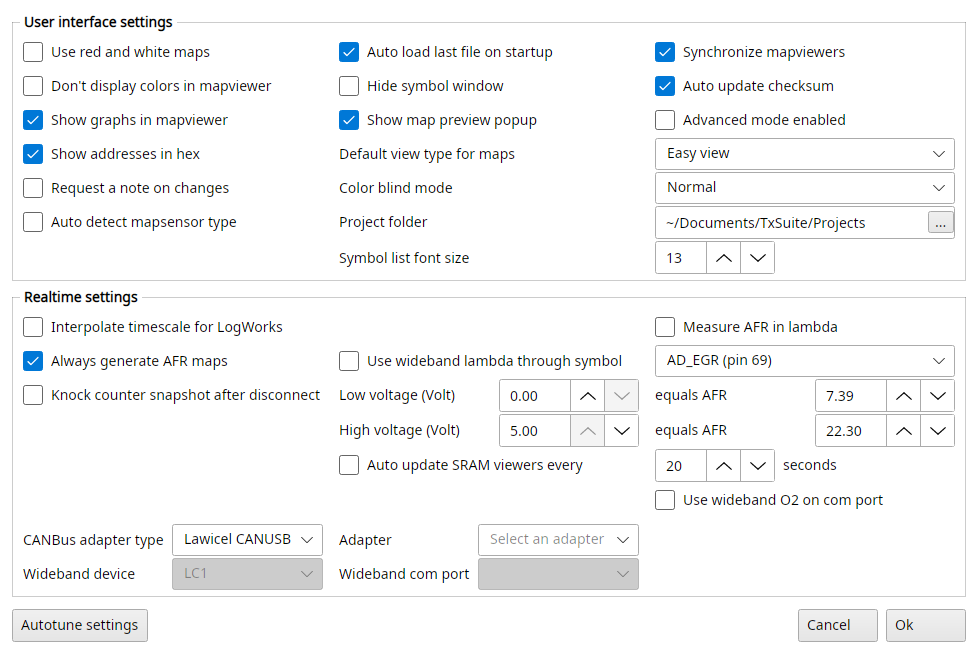
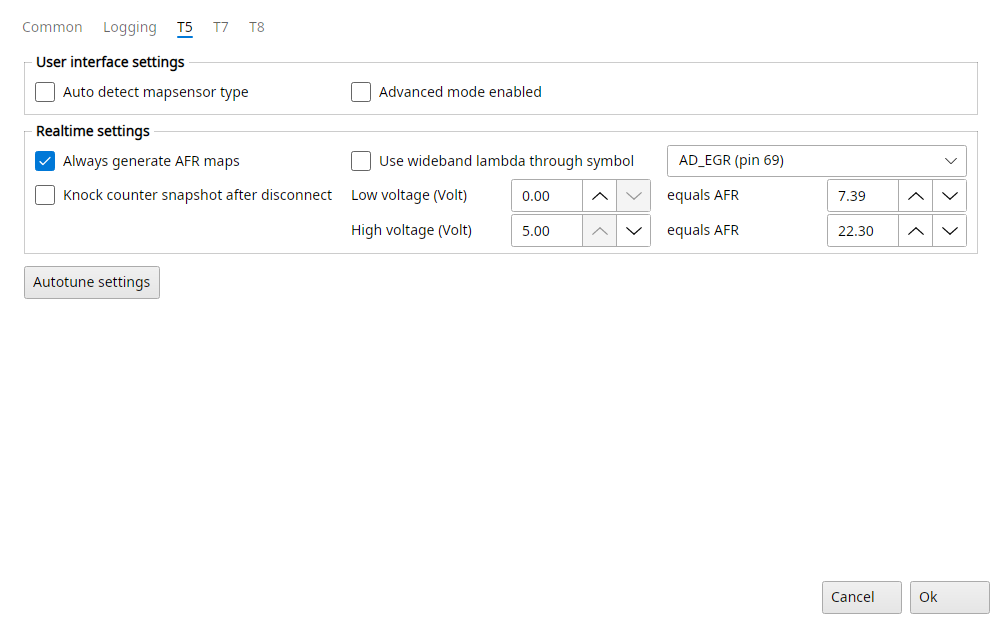
docs: TxSuite without suites inside, Settings → Logging and the map colour options gone; the screenshots from TxSuite

diff --git a/PORTING.md b/PORTING.md
@@ -26,10 +26,10 @@ This file is the tracker. Update the checkboxes and the log at the bottom as wor
 | Repo | T7Suite was ported on branch `net10` (merged), T8Suite is on `net10-t8` |
 | TrionicCANLib | ProjectReference to `Trionic/TrionicCANLib/TrionicCANLib.csproj` in the `Trionic` submodule (roffe/Trionic), set once in `Directory.Build.props` as `$(TrionicDir)` and overridable with `-p:TrionicDir=…` (e.g. `../Trionic` while working on both) |
 | WidebandSupport | Vendored into `WidebandSupport/` (from f0c0e87) with an SDK-style net10 csproj and the System.IO.Ports package. No licence file upstream, but every source file carries George Daswani's Apache License 2.0 header |
-| Settings | JSON at `<AppData>/MattiasC/T7SuitePro/settings.json`, plus a one-time import from `HKCU\Software\MattiasC\T7SuitePro` (and its MRU key `HKCU\Software\T7SuitePro\MRUList`) on Windows, as the flasher does |
+| Settings | JSON at `<AppData>/MattiasC/T7SuitePro/settings.json`, plus a one-time import from `HKCU\Software\MattiasC\T7SuitePro` (and its MRU key `HKCU\Software\T7SuitePro\MRUList`) on Windows, as the flasher does. Since TxSuite is the one program (2026-10-14): `<AppData>/MattiasC/TxSuite/settings.json`, the shared options once and each ECU's own in its section, the old suites' settings imported once (see TxSuite) |
 | Versioning, CI, packaging | Copy the flasher's: version from git tags in `Directory.Build.props`, one tag prefix per suite, upstream's release tags (`T7suite_v2.0.0`, later `T8suite_v`, `T5suite_v`), set by the app project's `VersionTagPrefix`, so a tag versions one suite; libraries and tests build as `0.0.0-<sha>`. One repo for all suites (revisit splitting after the T8 port, then with NuGet packages rather than submodules); self-contained win-x86 / linux-x64 / linux-arm64 / osx builds; WiX MSI, tar.gz and zip |
 | Threading | The ECU and realtime loop run on worker threads and report back with `Dispatcher.UIThread.Post`, never a blocking Invoke (the flasher deadlocked that way). Wrap the library's sync calls in a worker plus a `TaskCompletionSource`, like the flasher's `RunOnWorker` |
-| Map controls | Own Avalonia controls in `MapControls/`. Behaviour (selection, editing, keys, menus, clipboard) follows T7Suite; from txlogger the meshgrid 3D projection/drawing, the graph2d layout and the colour scale (green → yellow → red over the map's min..max; T7Suite's raw ÷ max made a fuel map red from its lowest cell). T7Suite's red-white option and online tint stay |
+| Map controls | Own Avalonia controls in `MapControls/`. Behaviour (selection, editing, keys, menus, clipboard) follows T7Suite; from txlogger the meshgrid 3D projection/drawing, the graph2d layout and the colour scale (green → yellow → red over the map's min..max; T7Suite's raw ÷ max made a fuel map red from its lowest cell). T7Suite's online tint stays; its red-white and no-colour options went on 2026-10-14 (the colour blind modes choose the map colours) |
 | Shared T7/T8 code | `SuiteCore` (no UI: the lifted CommonSuite code, `SuiteBinary` which T7Binary and T8Binary derive from, `SuiteProject`, compare / transfer, map search, symbol files, tuning packages, My Maps, the ECU worker thread and adapter setup, the realtime table, engine loop and logs, the update check, the DTC catalog) and `SuiteApp` (Avalonia: the main window and its view model with its ECU and realtime halves, symbol list, map viewer, workspace, status bar, project dialogs, the offline tuning windows, the realtime panel and log windows, the fault codes window, the settings base, theme, dialogs). The ECU protocols stay per suite (T7Ecu over KWP, T8Ecu over GMLAN). Each app keeps its menus and what only its suite has. The rest of T7Core / T7App moves there in the chunk where T8 needs it, so each piece is generalised against a second real consumer (T7 and T8 share 67 file names but only 8 identical files) |
 
 ## Layout (new projects)
@@ -50,10 +50,12 @@ T7Core/                    net10 class library, no UI: file, symbols, axes, chec
 T7CoreTest/                MSTest, golden tests over T7Binaries/
 MapControls/               Avalonia controls: MapGrid, Surface3D, Graph2D, MapData codec
 MapControlsDemo/           standalone app for working on the controls with fake data
-T7App/                     Avalonia MVVM app, AssemblyName T7Suite
-T8App/                     Avalonia MVVM app, AssemblyName T8Suite, on SuiteApp's main window
+T5App/ T7App/ T8App/       Avalonia libraries (AssemblyName T5Suite / T7Suite / T8Suite): each ECU's module (T5Module, T7Module, T8Module) and its
+                           own windows; the programs they were are TxSuite now
 T8Core/                    net10 class library, no UI: T8Suite's file logic (symbol table, header, dictionary), T8Binary
-T8CoreTest/ T8AppTest/     golden test over T8Binaries/; T8App headless on a stock bin
+T8CoreTest/ T8AppTest/     golden test over T8Binaries/; TxSuite headless on a T8 stock bin (T5AppTest, T7AppTest alike)
+TxSuite/                   the program: MainViewModel over the three modules, MainView (every ECU's menus in one), MainWindow, TxSettingsWindow
+TxSuiteTest/               TxSuite headless: opening another ECU's file, the menus per ECU, the settings store, the partnumber lookup
 SetupTx/                   Inno Setup scripts for TxSuite and TxExtras (the suites' WiX MSIs, SetupT5 / T7 / T8 and SetupExtras, went 2026-10-13)
 packaging/linux/TxSuite/   udev rule, desktop entry installer and icon for TxSuite's tar.gz
 ```
@@ -120,12 +122,12 @@ packaging/linux/TxSuite/   udev rule, desktop entry installer and icon for TxSui
 ### 2. MapControls (can run in parallel with chunk 1)
 Behaviour follows T7Suite's MapViewerEx and the DevExpress grid it used; only rendering techniques come from txlogger (see Decisions).
 - [x] `MapData` (`MapControls/MapData.cs`): bytes ↔ raw ↔ display; 8-bit unsigned, 16-bit big-endian with 0xF001..0xFFFF negative; Hex/Decimal/Easy/ASCII text and parsing exactly as MapViewerEx (Easy is display only: raw*factor+offset, `F2`, `°`/`%` for the T5 names); partial last row; upside-down display; open-loop test (limit per data row > X value); every change through `Set` = one undo step
-- [x] `MapGrid`: X/Y axis headers (hex in hex view), T7Suite cell colours (raw*255/max green→red, red-white alpha, online white→red tint, off), open-loop marks (box / SeaGreen corner), yellow live cell (`SetHighlight(col, dataRow)` = T7Suite's HighlightCell), DevExpress-style selection (click/drag, Shift, Ctrl, arrows), cell editor (typing / F2 / Enter, Easy starts from the value with `F2`, Enter commits the focused cell), steps on the selection (+/- 1, PgUp/PgDn 10 or 0x10, Home max, End 0), context menu with T7Suite's items (Copy selected cells, Paste selected cells at original position / at currently selected location, Smooth selection) plus undo/redo
+- [x] `MapGrid`: X/Y axis headers (hex in hex view), T7Suite cell colours (raw*255/max green→red, online white→red tint; red-white alpha and off until 2026-10-14), open-loop marks (box / SeaGreen corner), yellow live cell (`SetHighlight(col, dataRow)` = T7Suite's HighlightCell), DevExpress-style selection (click/drag, Shift, Ctrl, arrows), cell editor (typing / F2 / Enter, Easy starts from the value with `F2`, Enter commits the focused cell), steps on the selection (+/- 1, PgUp/PgDn 10 or 0x10, Home max, End 0), context menu with T7Suite's items (Copy selected cells, Paste selected cells at original position / at currently selected location, Smooth selection) plus undo/redo
 - [x] `MapOps`: steps, add/multiply/divide/fill with the old formulas and truncation, smooth (old algorithm: integer-step line for a row/column, in-place neighbour average for a block), select by value (physical within 0.009), T7Suite clipboard copy/paste
 - [x] Multi-step undo/redo (an improvement; the old viewer could only revert everything); Ctrl+Z/Y
 - [x] `Surface3D`: txlogger meshgrid's projection and drawing (its SkSL-ported shader on GPU canvases: ray cast height field through the raw values, Blinn-Phong with fake AO and an unlit underside; otherwise Skia Gouraud triangles in painter's order, Lambert shading; axis scales with real axis values, orbit/roll/pan/zoom, live cursor), txlogger's palette (green → yellow → red, or one of its colour blind scales; T7Suite's online wheat → dark blue)
 - [x] `Graph2D`: one row/column with markers, value callouts, nice ticks, live cursor; T7Suite palette for the markers
-- [x] `MapControlsDemo`: `dotnet run --project MapControlsDemo [file.bin]` shows IgnNormCal.Map / BFuelCal.Map / TorqueCal.M_NominalMap of a bin (axes, factors and open-loop limits as frmMain computes them) with view type, online and red-white toggles, 3D and a 2D slice slider
+- [x] `MapControlsDemo`: `dotnet run --project MapControlsDemo [file.bin]` shows IgnNormCal.Map / BFuelCal.Map / TorqueCal.M_NominalMap of a bin (axes, factors and open-loop limits as frmMain computes them) with view type and online toggles, 3D and a 2D slice slider
 - [x] Tests (`MapControlsTest`, 18): MapData decode/encode/format/parse/undo, every op, smooth, clipboard round trip, keyboard and mouse on a live headless window, and headless Skia renders of every control and of the demo on a real bin (`MAPCONTROLS_DUMP=<dir>` saves them as PNG to look at)
 - Moved: the compare overlay in 3D (original / compare surfaces) goes with compare in chunk 4; viewer sync, the slice selector and the "Edit x-axis / y-axis" menu items go with the map viewer view in chunk 3. Dropped: dragging points in the 2D chart (only the legacy MapViewer had it).
 - Deliberate differences from MapViewerEx, where the old behaviour was a bug:
@@ -146,7 +148,7 @@ Behaviour follows T7Suite's MapViewerEx and the DevExpress grid it used; only re
   - symbol list: Symbol name (coloured by prefix like T7Suite), Address and Length (X6 or decimal per ShowAddressesInHex), Description, User description; grouped by category, sorted by length; search over every column; Enter / double-click opens the map
   - title `T7SuitePro v<version> [ file ]`, status bar with open/normal binary, file name, progress, read-only state
   - "File is not a Trionic 7 binary file!" and the known-symbol-list prompts as dialogs (`UserPrompt` wired; the worker thread waits for the answer)
-- [x] Map viewers as tabs titled `Symbol: <name> [<file>]`; opening one again focuses it; viewers of a previous file stay open (as in T7Suite). `MapControls/MapViewer.cs` is the reusable composite (view type, table, 3D / 2D tabs with the column slider, splitter); viewers with the same map name follow each other's selection and 3D camera (`SyncGroup`, replaces frmMain's sync handlers). Settings used: DefaultViewType (T7 / T8 as it is; T5 Decimal when that is the default, else Easy, as T5Suite's MapViewerFactory.Get(settings, file)), ShowRedWhite, DisableMapviewerColors, ShowGraphs, StandardFill (open-loop marks). The 3D graph plots what the table shows (Easy: raw × factor + offset; Decimal: raw, sensor scaled on T5's 3-5 bar bins; Hex / ASCII: raw) and is redrawn on a view change, as MapViewerEx's FillData; the 2D slice stays physical in every view, as UpdateChartControlSlice
+- [x] Map viewers as tabs titled `Symbol: <name> [<file>]`; opening one again focuses it; viewers of a previous file stay open (as in T7Suite). `MapControls/MapViewer.cs` is the reusable composite (view type, table, 3D / 2D tabs with the column slider, splitter); viewers with the same map name follow each other's selection and 3D camera (`SyncGroup`, replaces frmMain's sync handlers). Settings used: DefaultViewType (T7 / T8 as it is; T5 Decimal when that is the default, else Easy, as T5Suite's MapViewerFactory.Get(settings, file)), ShowGraphs, StandardFill (open-loop marks). The 3D graph plots what the table shows (Easy: raw × factor + offset; Decimal: raw, sensor scaled on T5's 3-5 bar bins; Hex / ASCII: raw) and is redrawn on a view change, as MapViewerEx's FillData; the 2D slice stays physical in every view, as UpdateChartControlSlice
 - [x] Information > Firmware information: read-only, with the VIN decoder inline
 - [x] Tests: `T7CoreTest` (T7Binary on a stock bin, firmware info and the SID indicator scan), `MapControlsTest` (viewer sync), `T7AppTest` (the real app headless with Skia: open a bin, symbol list and search, open a map twice, firmware information; `T7APP_DUMP=<dir>` saves the windows as PNG)
 - Deliberate differences: the BioPower rename (BFuelCal.StartMap → BFuelCal.E85Map) now happens; in T7Suite it scanned the previous file's symbols and never fired at open. Feature checks read a symbol through the symbol that matched, not by looking its name up again (on the 123 stock bins with stripped names the old lookup found nothing and read offset 0). "Resolution is" factors are parsed culture-independently. The MRU is saved when it changes, not only on exit.
@@ -167,7 +169,7 @@ Behaviour follows T7Suite's MapViewerEx and the DevExpress grid it used; only re
 - [x] Symbol import (File menu): XML / CSV / AS2 descriptors, names saved to `<bin>.xml` (`T7Core/SymbolFiles.cs`). AS2 counts symbols in table order; T7Suite counted in its length-sorted list (open question: which order AS2 files use)
 - [x] My Maps (mymaps.xml in the settings folder, the same file T7Suite used): menu per category, Define myMaps editor, Add to MyMaps in the symbol list menu; the AFR feedback entries wait for realtime
 - [x] The ribbon's map buttons as a Maps menu with T7Suite's groups and DynamicTuningMenu's rules (BioPower names and E85 maps, B308 second maps, gas maps, boost control, cab gear limit)
-- [x] Settings window: the offline settings that do something here (red-white, graphs, colours, auto-load, default view type, synchronize mapviewers, closed loop indicator, timestamp marker, auto checksum, hex addresses applied at once, auto fix footer, project notes, project folder). Docking / window size / column options don't apply to tabs; the realtime group comes with chunks 5-6
+- [x] Settings window: the offline settings that do something here (graphs, colours, auto-load, default view type, synchronize mapviewers, closed loop indicator, timestamp marker, auto checksum, hex addresses applied at once, auto fix footer, project notes, project folder). Docking / window size / column options don't apply to tabs; the realtime group comes with chunks 5-6
 - [x] Exports: Save as (and open the copy), Export to S19, Generate Idc file, export as tuning package (selected symbols) and fixed tuning package, export symbollist as CSV, Export map to CSV (the Excel export's layout). XDF had no menu in T7 (XDFWriter is T5's)
 - [x] Search map content (`T7Core/MapSearch.cs`): numeric value (raw*factor+offset) or text in the data, symbol names / descriptions, optional map length; results tab opens the maps. T7Suite scanned only the first half of 16-bit tables and matched text only when it was longer than the map; both fixed
 
@@ -592,19 +594,25 @@ Behaviour follows T7Suite's MapViewerEx and the DevExpress grid it used; only re
 
 ## TxSuite (branch `combine`)
 
-One program for the three suites, MattiasC's TxSuite: the suites are unified enough (one main window, one menu layout, shared settings and ECU thread) that TxSuite only has to pick the suite for the file. Built on branch `combine` as a trial; it can be dropped without touching the suites.
+One program for T5, T7 and T8 binaries, MattiasC's TxSuite. First the three suites in one window, swapped in place by the open file's ECU (2026-10-11); since 2026-10-14 without suites inside it (user, 2026-10-13: "txsuite should just be one app that can do what the 3 different suites could do separately before"): one main window and one view model, and what a T5, T7 or T8 binary needs its own way is that ECU's module.
 
-- [x] `TxSuite/` (AssemblyName TxSuite, `Txsuite_v` tags) references T5App, T7App and T8App, which stay programs of their own. It starts the suite of the file it's given, else the one used last (`<AppData>/MattiasC/TxSuite/settings.json`), else T7.
-- [x] The main window is a view in a window: each app's `MainView.axaml` (its menus, status bar and workspace, deriving from SuiteApp's `SuiteMainView`, a UserControl) sits in a `SuiteWindow` (title, size, closing); the app's `MainWindow` is a SuiteWindow around its MainView. Dialogs and floating windows are owned by the view's window (`Host`); the view hands its key bindings and Ctrl+P / Ctrl+Shift+P to the window it's in, as Avalonia only looks for bindings from the focused element up. The single suites render as before.
-- [x] A file or project of another ECU opens in that suite's view in the same window (`MainWindowViewModel.Handoff`, `SuiteWindow.Show`; T5 / T7 by size and ident, T8 by size first, its own check prompts). Unsaved maps are asked about first; nothing switches while the ECU is being flashed; the old suite's floating windows close and its ECU connection is let go. An S19 stays with the suite it's opened in.
-- [x] Settings (user, 2026-10-11): one dialog with the tabs Common, T5, T7 and T8 (`TxSettingsWindow`). Common holds what every suite has (user interface, projects, the connection, the serial wideband), each ECU tab its own options in their old groups (T5: map sensor, advanced mode, AFR maps, knock snapshot, wideband through a symbol, Autotune settings; T7: timestamp, AFR maps, closed loop indicator, footer, CAN log, P-bus, wideband on pin 16, Autotune settings; T8: map detection, dynamic live data, P-bus, Legion). Ok writes Common into all three suites' settings and each tab into its suite's; the suite in front takes them at once. The dialog keeps the size of its biggest tab. A com port wideband turns the wideband through a symbol off in every suite.
-- [x] TxSuite to the suites (`MainWindowViewModel.Combined`): the title says TxSuite with its version, the update check looks for `Txsuite_v` releases with TxSuite's version, About (and its menu item) is TxSuite's with the three suites' thanks in one list. Recent is one list for all suites in TxSuite's settings, the first time the suites' own lists together; the skin is one for all suites (until it's set, the suite's own).
-- [x] Lookup partnumber (user, 2026-10-12) finds every ECU's partnumbers whichever suite is in front (no partnumber is in two suites' lists), each shown as its suite showed it (T8: car and engine only, `PartInfo.Details`); "not recognized by TxSuite". Its "..." list has a tab per ECU, the open binary's selected (T5's with none open; user, 2026-10-12), each the old suite's list (below). Open this file and Create new from original switch to that ECU's suite; Compare to this file only takes the suite in front's own partnumbers. The stock bins are in a folder per ECU, `Binaries/T5`, `Binaries/T7` and `Binaries/T8` (`PartInfo.StockFolder`, user, 2026-10-13). A Debug build of a suite links the three to the repository's T5Binaries, T7Binaries and T8Binaries (`LinkStockBinaries` in Directory.Build.props; Linux / macOS, by hand on Windows).
+- [x] `TxSuite/` (AssemblyName TxSuite, `Txsuite_v` tags) is the only program. `T5App`, `T7App` and `T8App` are libraries (their assemblies still T5Suite / T7Suite / T8Suite): each ECU's module and its own windows. Their App, Program, MainWindow, MainView, NLog.config, icons and per-suite settings windows are gone; TxSuite ships the manuals, the Tuning Wizard's packs and canlib32.dll.
+- [x] `MainWindowViewModel` (SuiteApp) is the main window for every ECU; TxSuite's `MainViewModel` makes it with its three modules (`T5Module`, `T7Module`, `T8Module`, the old suites' main window view models). A module (`EcuModule`) holds what the old suites' main windows did their own way: opening and checking their binaries and S19 files, the checksum, the symbol list's order, groups, columns, filters and colours, map viewer defaults and cell marks, the ECU session, flashing, fault codes, the realtime panel, packages, partnumber lookup, My Maps defaults, and the features only its ECU has. It reaches the main window through members of the same names (Binary, ShowInfo, ProgressText, ...), so the old code reads as it did. `Module` is the open file's ECU; with no file open the ECU of the file opened last (remembered as "Suite" in TxSuite's settings, T7 the first time).
+- [x] Opening a binary (Open file, Recent, a dropped file, the command line, a project, Lookup partnumber's Open this file / Create new from original) picks its ECU by the file: T5 and T7 by size and identity, T8 by its 1 MB size first (T8Suite's own check then says what is wrong). A file of another ECU closes everything of the one before, as when the suites were separate programs: unsaved maps are asked about (Cancel keeps it all), every document closes, the ECU connection and the imported SRAM snapshot go; nothing switches while an ECU is being flashed or a T5 autotune runs. A file no ECU takes closes the open one: "File is not a Trionic 5, 7 or 8 binary file!".
+- [x] One main view (`TxSuite/Views/MainView.axaml`): the three suites' menus in the layout they shared. What every ECU has always shows; an ECU's own items (T5Suite's, T7Suite's, T8Suite's, in their places) only while a file of that ECU is open, and with no file open only the shared ones (user, 2026-10-13: "T5 menu items should not be shown when T7 or T8 is open and vice versa"). Where suites had the same caption for their own action (Airmass result viewer, Clear DTC and knock counters, Get SRAM snapshot, View knock count map, AFR maps, User manual, Trionic N documentation), each ECU has its item and the open file's shows. The ECUs' handlers are `MainView.T5.cs`, `.T7.cs` and `.T8.cs`; the symbol list's row menu and Firmware information follow the same rule. The symbol list takes the open file's ECU's columns, filters and colours when it changes; My Maps are each ECU's own.
+- [x] The ECU follows the file (user, 2026-10-13: "Connecting with no file open - will give a error message that a file must be loaded"): Connect, Read ECU and every ECU action without a file open say "A file must be loaded first: it tells which ECU (Trionic 5, 7 or 8) to connect to." Each ECU keeps its old suite's behaviour (user, 2026-10-13: "The ecu's do differ from each other"): T5's online maps and map sync, T7 over KWP, T8 over GMLAN, their messages, realtime panels and tools as they were.
+- [x] One settings dialog (user, 2026-10-11) with the tabs Common, T5, T7 and T8 (`TxSettingsWindow`) over one store (2026-10-14): `<AppData>/MattiasC/TxSuite/settings.json`. The shared options (Common, the last file and project: `AppSettings.SharedNames`) are kept once at its top; each ECU's own are in its section, `T7\name` (`SettingsKey.Open("TxSuite/T7")`; the section's files, My Maps, the realtime layout, T5's user maps and library, in `TxSuite/T7`). The old suites' settings (T7SuitePro, T8SuitePro, T5SuitePro; on Windows their registry keys when they never ran here) are imported once (`SettingsKey.ImportOnce`): their own values and files into their section, the shared options from the first one imported (T7, T8, then T5), their Recent lists into the one list. Ok applies every tab to the ECUs' live settings at once.
+- [x] Settings → Logging (user, 2026-10-14), the tab after Common: every log file NLog.config writes (`SuiteApp/Services/Logging.cs`: Program uiLog, ECU sessions apiLog, KWP requests kwpLog, Flashing flasherLog, CAN adapter deviceLog, CAN frames canLog) on or off at a level of its own (Trace, Debug, Info, Warn, Error; a level logs the ones after it too), set on every rule writing to it when TxSuite starts (before anything logs) and on Ok. Keep log files (days) deletes the logs' dated files last written longer ago than that, at startup and on Ok (0, the default, keeps them all); Open shows the log folder. Kept in TxSuite's settings (`Logging\<target>\Level` / `On`, `Logging\KeepDays`); the defaults are what NLog.config logged (CAN frames off). T7's "Enable CAN logging" is the CAN frames row now (it starts off, the T7 tab's checkbox is gone). The shared code's loggers (CommonSuite, SuiteApp) now write to the program log, which they reached nowhere before; the rules that logged one level only (deviceLog, apiLog and flasherLog at Debug) log their level and the ones after it.
+- [x] No "Use red and white maps" and "Don't display colors in mapviewer" (user, 2026-10-14): the colour blind modes choose the map colours. The map grid always paints the value scale (T7Suite's online tint while connected), the settings stay in the lifted AppSettings unread.
+- [x] TxSuite to the user: its title and version, About (the three suites' thanks in one list), the update check (`Txsuite_v` releases), one Recent, one skin and one symbol list width for every ECU.
+- [x] Lookup partnumber (user, 2026-10-12) finds every ECU's partnumbers whichever ECU's file is open (no partnumber is in two ECUs' lists), each shown as its old suite showed it (T8: car and engine only, `PartInfo.Details`); "not recognized by TxSuite". Its "..." list has a tab per ECU, the open binary's selected (T5's with none open; user, 2026-10-12), each the old suite's list (below). Open this file and Create new from original open it as that ECU's file; Compare to this file only takes the open file's ECU's partnumbers. The stock bins are in a folder per ECU, `Binaries/T5`, `Binaries/T7` and `Binaries/T8` (`PartInfo.StockFolder`, user, 2026-10-13). A Debug build of a suite links the three to the repository's T5Binaries, T7Binaries and T8Binaries (`LinkStockBinaries` in Directory.Build.props; Linux / macOS, by hand on Windows).
 - [x] The partnumber list, one for the three suites and TxSuite's tabs (`PartNumberListWindow`, user, 2026-10-12): each suite's PartnumberCollection as its frmPartNumberList showed it: every column of the table (T5 22, T7 10, T8 5) with DevExpress' split captions, grouped by car model and engine type with those columns shown too, the partnumbers with a bin in Binaries coloured and their labels bottom left (T5's 20 Mhz orange over 16 Mhz yellow green). Differences: Ok picks the row and Close only closes (the old Close also picked it); Export (T7 / T8, now T5 too) writes tab separated text with a header line, without DevExpress' group rows; it opens with every group folded (DevExpress' default, user, 2026-10-12); a header click sorts within the groups, which stay in order; no group panel to drag columns into; the rows have the symbol list's text size.
-- [x] One NLog.config (T7Suite's plus the T5 and T8 cores' loggers) logging to `<AppData>/MattiasC/TxSuite`; the suites' own are left out of its publish.
+- [x] One NLog.config (T7Suite's plus the T5 and T8 cores' loggers) logging to `<AppData>/MattiasC/TxSuite`.
 - [x] Packaging (user, 2026-10-13): `SetupTx/TxSuite.iss`, an Inno Setup 6 installer (`TxSuiteSetup.exe`, WizardStyle modern, TxSuite's logo on its pages) into `Program Files (x86)\MattiasC\TxSuite`: the disclaimer, a desktop shortcut and "Open .bin files with TxSuite" as tasks (Open with lists TxSuite either way; Windows keeps a program the user picked with "Always" over it). No VC++ 2010 runtime: nothing shipped or called links msvcr100 (Lawicel's canusbdrv.dll imports only FTD2XX and KERNEL32, canlib32 and the MinGW libusb none; the old merge module came from the flasher's setup, which dropped it too). TxExtras (`SetupTx/TxExtras.iss`, `TxExtrasSetup.exe`, `Txextras_v` tags, extras.yml) installs T5Binaries, T7Binaries and T8Binaries into `Binaries\T5`, `T7` and `T8` of the folder TxSuite's setup recorded; `TxExtras.zip` holds the same `Binaries` folder for Linux / macOS. This branch releases only TxSuite (user, 2026-10-13): the single suites' setups (SetupT5 / T7 / T8), their Extras (SetupExtras, `T5extras_v` / `T7extras_v` / `T8extras_v`), Linux packaging, tags and nightlies are gone; T5App, T7App and T8App stay as projects TxSuite is made of and still run on their own (`dotnet run`). releases/latest drops the single suites' files. Linux tar.gz with `70-txsuite.rules` and `install-desktop.sh`, macOS a plain zip as the suites'. build.yml: `Txsuite_v*` tags (testing everything), `Txsuite_nightly`, TxSuiteTest in CI; releases/latest lists TxSuite and TxExtras; the update check takes a `Setup.exe` where the suites have an `.msi`. Differences from the plan: no MSI, and it replaces none of T5SuiteII, T7Suite and T8SuitePro (they install side by side).
 - [x] TxSuite's icon (user, 2026-10-13): the user's logo with its black corners made transparent, `TxSuite/TxSuite.ico` (16-256 px; exe, window, setups) and `packaging/linux/TxSuite/txsuite.png` (512 px).
-- [ ] The symbol list's width is still kept per suite. The common options are copied into each suite's settings file; a shared store would keep them once.
+- [x] Tests: T5AppTest, T7AppTest and T8AppTest run TxSuite's window and view model on their ECU's stock bin (an ECU's own members through `vm.T5` / `vm.T7` / `vm.T8`; the settings dialog on its tab); TxSuiteTest opens T7, T8 and T5 files in one window (the menus, the columns, the closing documents, Cancel on an unsaved map, the keys), the settings store, the partnumber lookup and list; SuiteCoreTest the import and the sections.
+- Deliberate differences from the single suites: an ECU action that needed no file in its old suite needs a file of that ECU now (Read ECU, T7's Get SRAM snapshot and Extra functions, T8's Recover ECU, Get ECU information and Create binary from TIS file, T5's User library, Merge binary files, Binary compare SRAM snapshots and Open a saved report, the user manuals); Import SRAM snapshot and T8's Get fault codes are greyed without a file; the per-suite settings dialogs are gone, TxSettingsWindow has their options; Shift+F5 (T5's autotune) and Toggle Autotune now follow the realtime panel (their binding never saw it open, the main window didn't say when it changed); the close and switch blockers no longer name a suite.
+- ponytail: an S19 converts at the size of the ECU of the file opened last (T5 with its own converter); the S19's addresses could tell the ECU. Load logfile, its exports and dropped logs take that ECU's log type when no file is open.
 
 ## Open questions
 
@@ -618,7 +626,7 @@ One program for the three suites, MattiasC's TxSuite: the suites are unified eno
 - Decided (default, 2026-10-10), the conversion fixes: T5's error AFR maps are stored as 16-bit two's complement (T5Suite wrapped the low byte and read 201..255 back as negative; the error map is never saved, so no old file holds it); on 3-5 bar bins a typed 16-bit value rounds up and only the edited cell is written (T5Suite truncated and rewrote every cell); negative hex headers keep 4 digits (FF38, not T7Suite's FFFFFF38); the 2D slice of a difference map leaves the offset out too (T5Suite's slice chart still added it); the realtime Autotune grid keeps 0 in cells without samples (as before); T5's SRAM <> BIN difference keeps the 3.0-5.0 bar sensor scale like every other viewer (T5Suite's showed raw values there).
 - Decided (default, 2026-10-10): T5's map viewer has T5Suite's cell marks (TryToAddOpenLoopTables): the closed-loop box always (T5Suite had no "Closed loop indicator" setting; T7 keeps its own, none by default; T8 has no data for it), the padlock below the knock pressure (Knock_press_tab!, T5.2's Knock_press!) and on the cells locked in the ignition / AFR / idle AFR lock maps, the blue knock adaption box (Kadapt_*), the white boost adaption box on the last column and the AFR sample box on the feedback maps; T5Suite's db_lock16_h icon. Different from T5Suite: the lock maps are drawn in their own rows (T5Suite drew them upside down, so autotune locks showed on the mirrored rpm row), the padlocks also when lambda control is off (an exception hid them), the idle feedback maps get their sample boxes too, viewing Ign_map_0! loads an earlier session's ignition locks but makes no IgnitionMaps folder, and a padlocked value is centred left of the padlock (T5Suite left-aligned all values). "Ignition lock map" opens Ign_map_0! as in T5Suite instead of a separate 0 / 1 table. Not ported yet: the "Lock cells" / "Unlock cells" menu, the "# measurements" hover hint, the yellow edited-cell triangle.
 - Decided (user, 2026-10-10): every option in the three settings dialogs has a mouseover tip in the old dialogs' SuperTip style (bold title, text indented under it; `SuiteApp.Controls.SuperTip`). The originals' tips are kept where they still hold, typos fixed and "T5Suite 2.0" called T5Suite; tips that describe the old behaviour are reworded to what the port does (Synchronize mapviewers, Hide symbol window, Auto update checksum, the LogWorks interval); T5Suite's tip for an option the other suite lacked one for is reused (CANBus adapter type, Request project notes, Interpolate timescale); the copy-paste tips are not reproduced (T5Suite's Show addresses in hex had Show graphs' tip, T8Suite's Show map preview popup had Always re-create repository items'); options without a tip get a new one. The app tests fail when a checkbox, combo, spin box or text box in Settings has none.
-- Decided (user, 2026-10-10): txlogger's colour blind modes in all three suites ("Color blind mode" under User interface settings: Normal, Universal, Protanopia, Tritanopia, Deuteranomaly; stored by name as txlogger does). They recolour the value scale of the map grid, its 3D surface (shader palette and triangles) and 2D graph, and the airmass result table, in open viewers too. T7Suite's online and red-white palettes and the realtime bar gauges keep their colours. Different from txlogger: cell text turns white where it reads better than black (only the colour blind scales' dark ends; never on the green → red scale); in a colour blind mode the open-loop corners and the airmass limiter corners get an outline in the text's colour, because their fixed colours can be on the scale (the gear limiter's SaddleBrown is Deuteranomaly's high end, the open-loop SeaGreen looks like Tritanopia's teal); open viewers in every window take a change at once.
+- Decided (user, 2026-10-10): txlogger's colour blind modes in all three suites ("Color blind mode" under User interface settings: Normal, Universal, Protanopia, Tritanopia, Deuteranomaly; stored by name as txlogger does). They recolour the value scale of the map grid, its 3D surface (shader palette and triangles) and 2D graph, and the airmass result table, in open viewers too. T7Suite's online palette and the realtime bar gauges keep their colours (its red-white palette went on 2026-10-14). Different from txlogger: cell text turns white where it reads better than black (only the colour blind scales' dark ends; never on the green → red scale); in a colour blind mode the open-loop corners and the airmass limiter corners get an outline in the text's colour, because their fixed colours can be on the scale (the gear limiter's SaddleBrown is Deuteranomaly's high end, the open-loop SeaGreen looks like Tritanopia's teal); open viewers in every window take a change at once.
 - Decided (user, 2026-10-10): one menu layout for all three suites, the same menus, captions and order (T7 / T8's as the base; a suite's own items in the group they belong to). T5 gets File, Actions, Tuning (its tuning wizards in a submenu, as T8), My Maps, Realtime (Online tuning and Logfiles together), ECU, Skin, Help, with the shared captions: Settings (Options and settings), Exit (Exit T5Suite 2.0), Open file..., Create backup file, Firmware information (Trionic options), Show interrupt vectors, Show disassembly, Compare symbols / binary with other binary, Transfer maps to another binary, View file in hex, Compare binary to SRAM snapshot, Import SRAM snapshot (Open SRAM snapshot, in Actions), Toggle realtime panel (Switch mode), Load logfile, Get fault codes, Read ECU / Flash current file to ECU, Get SRAM snapshot (Download SRAM from ECU, in ECU), the AFR maps in a submenu; T5 gains Save all. T7 / T8: Load logfile (Load trionic 7 / 8 logfile), Get fault codes (… (OBDII)), T8's Import descriptors flat as T7's, Import SRAM snapshot (T8: Import SRAM file), Help as User manual, Trionic N documentation, Release notes, Check for updates, About; the row menus in one order with "Browse axis information" and "Edit a tuning package" (T7 gains it, as T8 had). VIN decoder sits right under Firmware information in all three; T7's moved there out of the firmware dialog (T7Suite showed it in that dialog), and it opens with the file's VIN as T8's does.
 - Decided (user, 2026-10-11, a forum request): the symbol list opens with every category folded (as DevExpress grouped it; T5Suite unfolded its top level), and the map in front is selected in it, its category unfolded (new: the old suites didn't follow the active panel). A symbol chosen outside the list that isn't in view goes to the top of the list, as far as the list's end allows (the grid's ScrollIntoView left it at the bottom edge); one already in view, or chosen in the list with a click or key, doesn't move the list. Another file's map (a compare side) leaves the list alone. A search or filter row text unfolds every category so its matches show, and clearing it folds them again but the selected symbol's; other refreshes keep the folds, as the grid matches its groups by key. A new file has no symbol selected (the grid made the first row current, unfolding its category).
 - Decided (user, 2026-10-11): the symbol list's text size is a setting in all three suites, "Symbol list font size" under User interface settings (8 to 24 px, default 13: Fluent's grid had 15 px text on rows of at least 32 px, too large); the rows scale with it and the list changes at once. The first of the settings for customising the look.
@@ -673,6 +681,9 @@ One program for the three suites, MattiasC's TxSuite: the suites are unified eno
 - 2026-10-13: "OBDLink SX" and the new "OBDLink EX" in the adapter list are a driver of its own for STN adapters (TrionicCANLib `CANScantoolDevice`, after gocan's scantool adapter): STBR to 2 Mbit, every frame as STPX with its header and response count, so T7's 0x240 / 0x266 switching costs no ATSH; the EX takes gocan's T5 timing (STCTR82239F) and has no T7 I-bus timing yet. The ELM327 driver stays, listed as "ELM327" (it was the "OBDLink SX" entry; saved settings naming "OBDLink SX" now get the STN driver). Both drivers read the port from one thread (3.2 → 1.1 ms per frame against an instant adapter). Bench, T8 Legion read of 1 MB on an OBDLink SX, still through the ELM327 driver with these changes: 5 min 14 s → 48 s, md5 verified (117 s of the saving is the flasher's inter-frame delay going 1200 → 200 µs); the STN driver on the bench is next.
 - 2026-10-13: TxSuite packaged for its first release: Inno Setup installer with .bin association, TxExtras with all three ECUs' stock bins, CI tags and nightly, its own icon. The stock bins are in `Binaries/T5`, `T7` and `T8`; Debug builds link them to the repository's folders.
 - 2026-10-13: Only TxSuite is released from here: SetupT5, SetupT7, SetupT8, SetupExtras, the single suites' Linux packaging, tags and nightlies removed, CI tests everything and packages TxSuite; no VC++ 2010 runtime in any setup (nothing needs it).
+- 2026-10-14: TxSuite without suites inside: one main window and view model for T5, T7 and T8 binaries, each ECU's own part its module (T5Module, T7Module, T8Module); one menu, an ECU's own items only while its file is open; connecting needs a file; one settings store with a section per ECU and the old suites' settings imported once; T5App, T7App and T8App are libraries, their per-suite windows and settings dialogs gone.
+- 2026-10-14: Settings → Logging: each log file on or off at its level, the dated log files deleted after a number of days, the log folder; T7's Enable CAN logging is its CAN frames row.
+- 2026-10-14: Use red and white maps and Don't display colors in mapviewer removed (settings, MapGrid / MapViewer, the demo's toggle); the colour blind modes cover map colours.
 - 2026-10-10: File pickers have titles in all three suites (the Linux portal showed "xdg-desktop-portal-kde"): the old suite's dialog title where it had one (Open a binary Trionic N file..., Save current file as..., Open CAN bus logfile, Select a SRAM snapshot, Save rebuild file as...), else the caption of the menu item or button that opens it; `Dialogs.OpenFile` / `OpenFiles` / `OpenFileIn` / `SaveFile` take a required title, so a picker without one doesn't compile. T7's Firmware information import had its title in the filter name.
 - 2026-10-10: Conversions, round 2: maps open in the old suites' view (T5: Decimal if that is the default, else Easy, Hexadecimal too; T7's AFR maps in the default view, they were always Easy; the T5 knock counter snapshot in Easy with bar headers and the sensor-scaled axis); numbers as the old suites showed them in all three: halves rounded away from zero in the Easy cells, the editor, the two-decimal headers and the 3D labels (Insp_mat! 0.625 shows 0.63), a plain '-' in every locale (ICU gave sv / nb / fi U+2212), the 3D and 2D labels in the user's number format, the 3D graph plotting the table's numbers outside the Easy view (Ign_map_0! 360, not 36.0), View matrix from logfile with two decimals; T5's injection timing duty cycle in 0.01 % with bar headers, dyno / compressor boost unrounded on 3-5 bar bins (374 Nm, not 372), the user library's torque rounded, Compare results' Average difference absolute (T7 / T8 stay signed), the boost bias wizard's resulting rpm range, LogWorks number formats per channel; the autotune accept dialog in 0.01 % steps; symbol numbers in hex in compare results; airmass fuel flow in whole l/h and target λ rounded after the DC scaling; Free logging Value / Peak as each suite showed them (T7 / T8 unformatted, G15; T5's User defined tab F2 and Pgm_status in hex); T5's AFR maps on the sensor-scaled MAP axis as the fuel map's viewer (Decimal headers on 3-5 bar bins); Compare results' F1 columns and the airmass target AFR rounded as the old suites did; the injection timing text keeps duty cycles above 655.35 %.
 - 2026-10-10: Conversions the port got wrong against the old suites (an audit on the stock bins): T7 / T8 X axes above 0xF000 negative in the viewer (headers, 3D, slider; 35 T7 and 60 T8 maps showed 655xx); Export map to CSV's X row in the axis' units (T5 in bar) with the sheet's sign rule (T8 with the listed axis' factor); T5's "Feedback vs target" maps negative where rich (they showed +22..25), the feedback maps blank where empty, the Autotune grid's AFR with one decimal; difference maps without the map offset (an unchanged Tryck_mat! cell read −1.00), T5's on the compare file's axes, SRAM <> BIN in Decimal (T5) and SRAM snapshots in Easy (T7); Tune me up stage 4 writes Rpm_max! in rpm / 10 (it wrote 6400, turning the limiter off); T5's math toolbar with T5Suite's Multiply / Divide and rounding, keys / math / editor on the shown value of 3-5 bar bins; T7 Import AFR feedback data from the full-precision maps (up to +13 % fuel in lambda mode); View matrix from logfile negative values (−9.75 showed 55.79); Export logfile to CSV writes AD_Scanner as AFR (T7 / T8); T5's LogWorks export no longer converts AD_sond twice; row headers as MapViewerEx (short Y axes from the top, blank past them and without an axis); T5 LOLA Inj_map_0!'s live cell on TPS; the 3D graph labels a longer Y axis's rows as the headers do; T5's Hex headers show the stored MAP axis on 3.0-5.0 bar bins, as T5Suite's; a compare file's ignition map makes no IgnitionMaps folder next to the open bin.

diff --git a/README.md b/README.md
@@ -12,7 +12,7 @@ http://www.txsuite.org
 
 # T5Suite, T7Suite and T8Suite for Windows, Linux and macOS
 
-T5Suite, T7Suite and T8Suite have been rebuilt on .NET 10 and Avalonia, without the commercial components the old suites needed, so they run on Windows, Linux and macOS. They ship as one program, TxSuite, which opens a T5, T7 or T8 binary in that suite. They read, edit and write the same files as the old suites and talk to the ECU through [TrionicCANLib](https://github.com/roffe/Trionic), the library of the Trionic CAN Flasher. [PORTING.md](PORTING.md) tracks what has been ported and every deliberate difference; the old .NET Framework suites are kept in [OldSuites](OldSuites) for reference.
+T5Suite, T7Suite and T8Suite have been rebuilt on .NET 10 and Avalonia, without the commercial components the old suites needed, so they run on Windows, Linux and macOS. They are one program now, TxSuite, which opens T5, T7 and T8 binaries alike. They read, edit and write the same files as the old suites and talk to the ECU through [TrionicCANLib](https://github.com/roffe/Trionic), the library of the Trionic CAN Flasher. [PORTING.md](PORTING.md) tracks what has been ported and every deliberate difference; the old .NET Framework suites are kept in [OldSuites](OldSuites) for reference.
 
 The suites support the same interfaces as the flasher (T5Suite talks to the ECU's P-bus):
 
